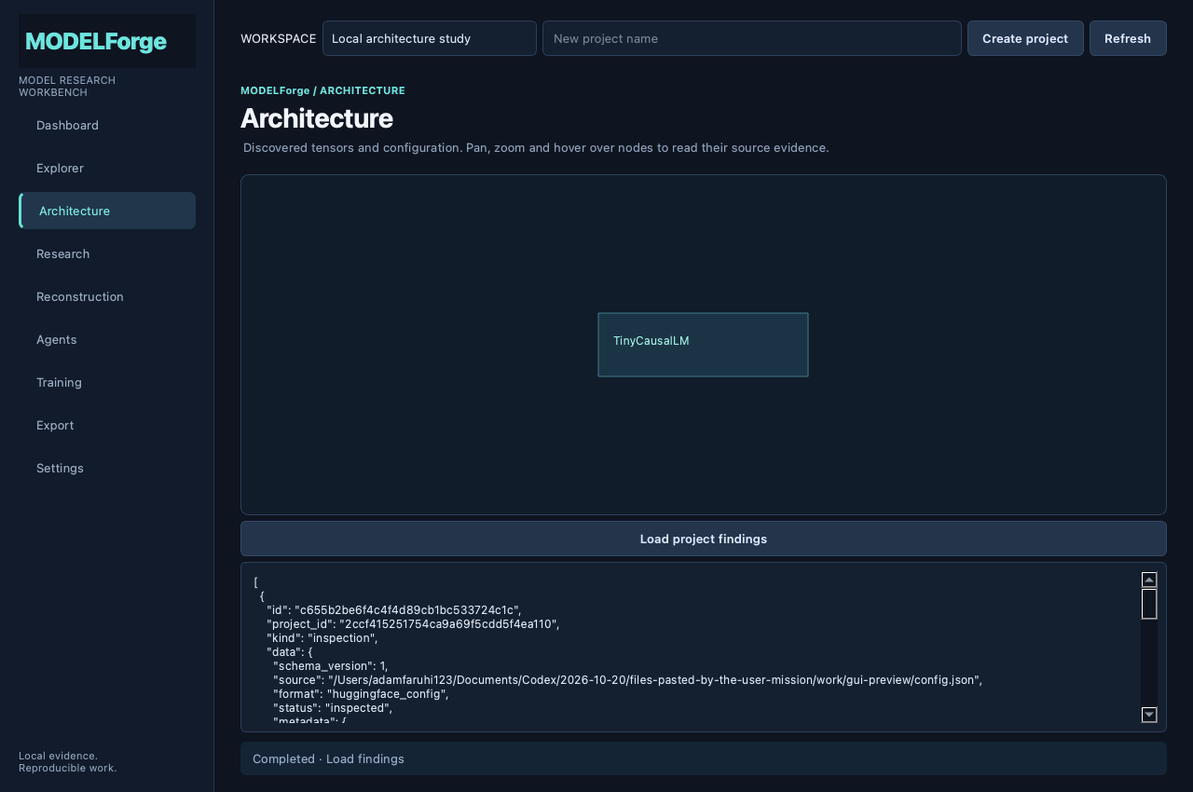
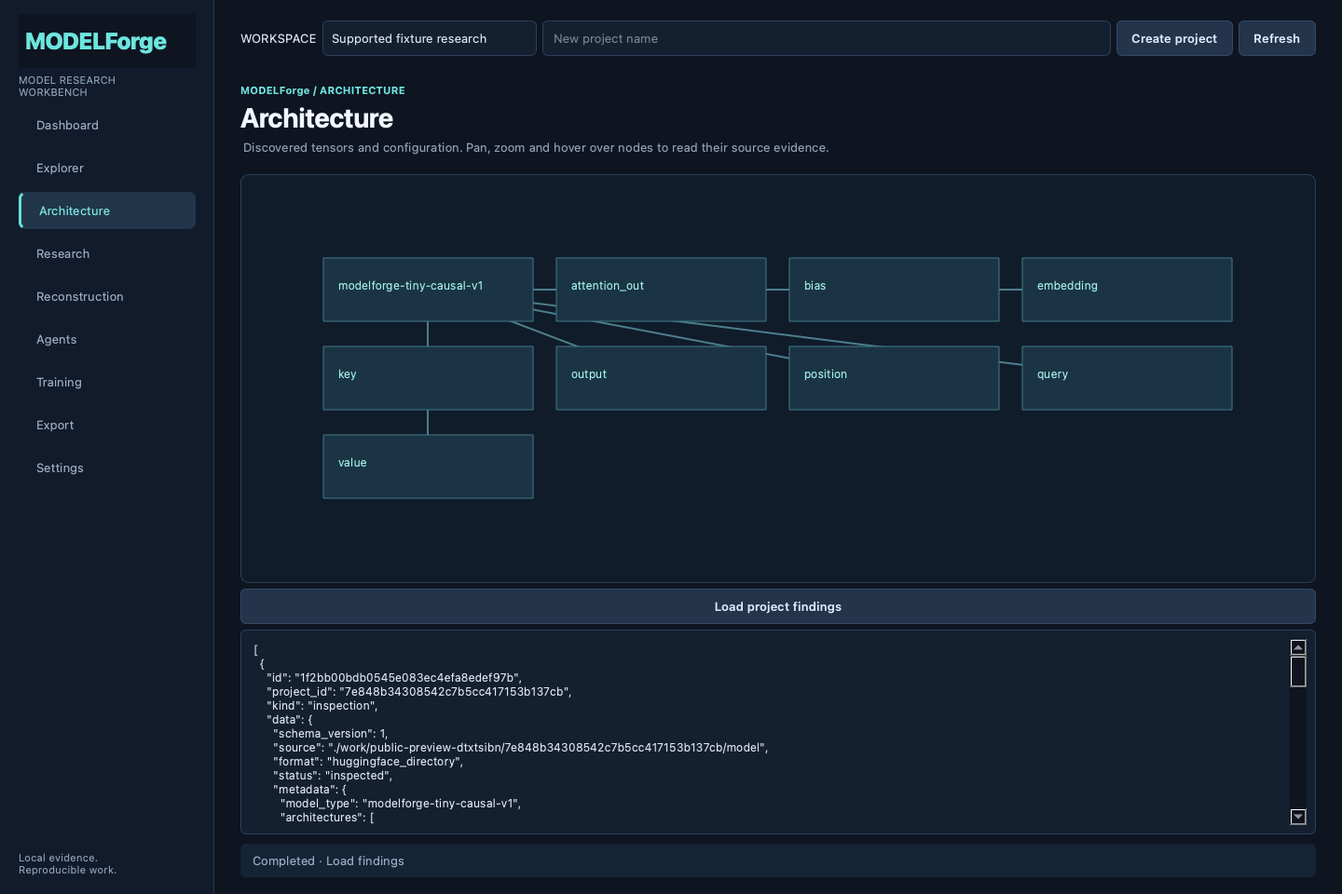
Preserve macOS framework symlinks and verify extracted release packages

diff --git a/packaging/archive.py b/packaging/archive.py
@@ -1,16 +1,75 @@
-"""Archive only the native app built on this platform; hash release assets."""
+"""Archive and round-trip-test the actual native app before hashing release assets."""
 
-import hashlib
 from pathlib import Path
+import hashlib
+import os
 import platform
 import shutil
+import subprocess
 import sys
+import tempfile
+import zipfile
 
 root = Path(__file__).resolve().parents[1]
 dist = root / "dist"
 name = f"ModelForge-0.1.0-{platform.system()}-{platform.machine()}"
 source = "ModelForge.app" if sys.platform == "darwin" else "ModelForge"
-shutil.make_archive(str(dist / name), "zip", root_dir=dist, base_dir=source)
+archive = dist / (name + ".zip")
+if sys.platform == "darwin":
+    # Framework symlinks must survive packaging; generic ZIP writers lose directory symlinks.
+    subprocess.run(["xattr", "-cr", str(dist / source)], check=True)
+    subprocess.run(["codesign", "--verify", "--deep", str(dist / source)], check=True)
+    if archive.exists():
+        archive.unlink()
+    subprocess.run(
+        [
+            "ditto",
+            "-c",
+            "-k",
+            "--keepParent",
+            "--norsrc",
+            "--noextattr",
+            str(dist / source),
+            str(archive),
+        ],
+        check=True,
+    )
+else:
+    shutil.make_archive(str(dist / name), "zip", root_dir=dist, base_dir=source)
+
+with tempfile.TemporaryDirectory(prefix="modelforge-unpack-") as temporary:
+    destination = Path(temporary)
+    if sys.platform == "darwin":
+        subprocess.run(
+            ["ditto", "-x", "-k", str(archive), str(destination)], check=True
+        )
+        executable = destination / source / "Contents" / "MacOS" / "ModelForge"
+        subprocess.run(
+            ["codesign", "--verify", "--deep", "--strict", str(destination / source)],
+            check=True,
+        )
+    else:
+        with zipfile.ZipFile(archive) as zipped:
+            zipped.extractall(destination)
+            if sys.platform != "win32":
+                for item in zipped.infolist():
+                    (destination / item.filename).chmod(
+                        (item.external_attr >> 16) & 0o777
+                    )
+        executable = (
+            destination
+            / source
+            / ("ModelForge.exe" if sys.platform == "win32" else "ModelForge")
+        )
+    environment = dict(
+        os.environ,
+        QT_QPA_PLATFORM="offscreen",
+        MODELFORGE_HOME=str(destination / "research-data"),
+    )
+    subprocess.run(
+        [str(executable), "--smoke-test"], env=environment, check=True, timeout=60
+    )
+
 assets = sorted(
     p
     for p in dist.iterdir()
@@ -22,3 +81,4 @@ assets = sorted(
         for p in assets
     )
 )
+print("Archive extracted and frozen app launch passed:", archive.name)

diff --git a/docs/validation.md b/docs/validation.md
@@ -1,26 +1,34 @@
-# Validation record
+# Validation record — 2026-10-20
 
-This file is finalized with measured results before release. A passing unit test does not prove universal model equivalence.
+## Executed checks
 
-Initial macOS Apple Silicon run: Python 3.12.15; official MCP SDK 1.30.0; PySide6 6.12.0; NumPy 2.5.4. 105 pytest tests and 28 subtests passed with 95% aggregate statement coverage before final integration additions. Final results are recorded below when available.
+| Environment | Pytest result | Installation, package and frozen launch |
+| --- | --- | --- |
+| Local macOS ARM / Python 3.12.15 | **155 passed + 28 subtests**, no skips; **96% statement coverage** | Dedicated desktop install, full example, uninstall, frozen app launch passed |
+| GitHub macOS ARM runner | **154 passed, 1 skipped + 28 subtests** | Fresh core install, full CPU example, uninstall, native package and frozen launch passed |
+| GitHub Linux x64 runner | **154 passed, 1 skipped + 28 subtests** | Fresh core install, full CPU example, uninstall, native package and frozen launch passed |
+| GitHub Windows x64 runner | **145 passed, 10 skipped + 28 subtests** | Fresh core install, full CPU example, uninstall, native package and frozen launch passed |
 
-Real checks include generated SafeTensors and GGUF binary files, generated ONNX/Core ML protobufs, NumPy inference and training, independent scalar attention comparison, export/reload and reconstructed-fixture parity, SQLite persistence/concurrent claims, real SDK stdio subprocess transport and Qt offscreen service workflows.
+[Successful cross-platform run 39433685862](https://github.com/m2gsg7rf22-cmd/model-forge/actions/runs/39433685862) verifies executable source commit `cfedbfa784a70c0d20a653b80f63bf99f7ca8baa`. Windows skips comprise POSIX executable/symlink fixtures and optional Core ML. The other CI platforms skip optional Core ML; local acceptance installed coremltools and ran that test. Strict mypy and Ruff passed. Version details: [tested-dependencies.json](tested-dependencies.json).
 
-Local HTTP tests are **fixture endpoints**, not third-party paid model calls. External agent adapter tests execute **provider-named temporary fixtures**, not authenticated Claude/Codex inference. Low-memory and disk-full conditions include explicitly injected tests; they are not claims that the host ran out of physical memory. Qt tests use offscreen rendering; screenshots are real Qt renders, not a human usability study.
+The initial Windows failure was a test corpus written with the default Windows encoding. The test now explicitly writes UTF-8, matching the product's documented UTF-8 corpus loader. Corrected CI passed without changing the loader to accept incorrect encodings.
 
-Claude Code 2.1.304 was installed in an isolated workspace directory. Strict marketplace validation, plugin installation into isolated CLAUDE_CONFIG_DIR, and `claude mcp list` returning Connected passed. Codex CLI 0.155.1 registered and listed the actual stdio executable using isolated CODEX_HOME. This does not yet establish an authenticated agent research turn or the separate desktop app's plugin discovery UX.
+## Real execution versus fixtures
 
-Windows-specific provider executable fixtures and privileged symlink tests are skipped where POSIX assumptions do not apply. Optional Core ML tests skip when coremltools is absent. CI smoke tests validate boot and basic service startup, not signed-installation UX on every OS version.
+Real generated-file tests cover SafeTensors/GGUF, ONNX and Core ML protobufs, malformed inputs and shard consistency. Real NumPy tests cover causal masking, an independent scalar attention reference, loss reduction with a frozen backbone, exact float32 export/reconstruction parity and lossy quantized storage. SQLite tests exercise concurrent deduplication, atomic job claims and recovery. Official MCP SDK tests use an actual subprocess stdio connection. Qt tests use the real service and persistence, not fabricated service results.
 
-## Additional verified integration results
+Local HTTP servers are **fixture endpoints**, not paid production-model calls. Temporary provider-named executables are **agent adapter fixtures**, not authenticated Claude/Codex research. Disk-full/low-memory and some process error cases are explicitly **injected failures**. Dialog selections are patched in GUI tests while the underlying file/service operations actually execute. Qt tests and screenshots use **offscreen rendering**, not a human usability study.
 
-- Final local suite after reconstruction/quantization and evaluation integration: **155 tests passed, 28 subtests passed, 96% aggregate statement coverage**. Strict mypy and Ruff are checked separately.
-- Fresh dedicated source installation with desktop dependencies succeeded. Installed CLI executed the complete CPU example; installed GUI entry passed its timed offscreen launch. Dedicated uninstall removed the environment and retained research data.
-- Frozen macOS app built, ad-hoc signed and passed a timed offscreen launch.
-- Authenticated Codex CLI turn successfully called the real `hardware_status` MCP tool and reported observed NumPy CPU / arm64. First attempt was blocked by the noninteractive approval policy; a retry explicitly approved only that read-only tool. No blanket tool approval or persistent host-settings edit was used.
-- GitHub Actions run [39433001579](https://github.com/m2gsg7rf22-cmd/model-forge/actions/runs/39433001579) passed Linux x64 and macOS ARM test, type/lint, fresh installation/uninstallation, package and frozen-app smoke stages. Its Windows test failed and is being corrected; it is not a passing Windows release record.
+## Host integrations
 
-No authenticated Claude model turn or local Claude desktop application UI test has
-been completed. Claude CLI plugin install and real MCP connection were verified.
-No third-party production-model extraction, high-memory training, actual GPU
-backend, notarization or signed Windows installation was tested.
+Claude Code 2.1.304 was installed in a workspace-local environment. Strict marketplace validation, plugin installation into isolated `CLAUDE_CONFIG_DIR`, and `claude mcp list` reporting **Connected** passed. A separate `CODEX_HOME` registered/listed the real stdio server using Codex CLI 0.155.1.
+
+An **authenticated Codex turn** successfully invoked ModelForge's real `hardware_status` tool and reported observed `NumPy CPU` / `arm64`. The first attempt was blocked by noninteractive tool approval; the successful retry explicitly approved only that read-only tool. Existing host settings were not edited.
+
+Claude reports no authenticated account on this host. No authenticated Claude model turn or Claude desktop application plugin-discovery UI test is claimed. The user must log in with `claude auth login` to complete authenticated Claude-agent testing. The existing host Claude executable also lacks its native binary; the isolated acceptance installation works.
+
+## Distribution
+
+A fresh clone of the public repository was installed, executed the full CPU example, and uninstalled. Research data remained intact. Local macOS ZIP creation uses `ditto` to preserve framework symlinks; the archive was unpacked to a fresh temporary directory, its ad-hoc signature verified, and the extracted application launched successfully. This catches archive failures that an in-place executable smoke test cannot catch. CI's archive stage now repeats extraction/launch before uploading assets.
+
+macOS builds are ad-hoc signed, **not Developer-ID signed or notarized**. Windows artifacts are portable executable folders, **not signed MSI installers**. Source installation scripts are supplied for all three systems and were exercised on the CI runners. macOS Intel, specific Windows 10/11 client versions, GPU backends and high-memory training were not directly tested. No production-model extraction or proprietary weight reconstruction was run.

diff --git a/docs/user-guide.md b/docs/user-guide.md
@@ -8,7 +8,7 @@ without a desktop display. Data defaults to `~/.modelforge`; use
 1. **Create a project.** Enter its name above the pages and click **Create project**.
    Select existing projects from the workspace dropdown. Projects, findings and
    task states persist in SQLite.
-2. **Inspect a local artifact.** In **Explorer**, browse to a file or type a model
+2. **Inspect a local artifact.** In **Explorer**, browse to a file, click **Choose model folder…**, or type a model
    directory path, then click **Inspect artifact**. Read the returned status,
    limitations and evidence. Pickle/PyTorch files are refused.
 3. **Explore architecture.** Open **Architecture**. Drag to pan, scroll to zoom,
@@ -23,10 +23,15 @@ without a desktop display. Data defaults to `~/.modelforge`; use
    `MODELFORGE_API_KEY` before launch when needed. Token limits cap requested
    output, while input/provider overhead remains billable. Results are saved,
    never automatically reused as training data.
-5. **Build the independent fixture.** In **Reconstruction**, click **Build local
-   reconstruction**, then enter a prompt and **Run local inference**. This creates
-   a small seeded byte-token model; it does not reconstruct the last imported
-   artifact. Create another project to build another fixture.
+5. **Build or reconstruct the supported fixture.** In **Reconstruction**, click
+   **Build independent tiny fixture**, then enter a prompt and **Run local
+   inference**. This creates a small seeded byte-token model. To reconstruct an
+   existing supported ModelForge bundle, create an empty project, choose its
+   source directory with **Choose source folder…**, and click **Reconstruct
+   supported bundle**. The saved report compares logits on finite test prompts.
+   Other imported architectures remain inspection-only. **Quantize current
+   fixture** creates separate lossy INT8 storage; execution still uses float32 CPU
+   arithmetic. The current model is not replaced by its quantized export.
 6. **Train its output head.** In **Training**, paste your own authorized text or
    load a UTF-8 file, choose 1–1,000 steps, and click **Train baseline**. Only the
    output projection is trained. Attention and embeddings remain fixed.
@@ -36,7 +41,7 @@ without a desktop display. Data defaults to `~/.modelforge`; use
    `{"provider":"codex","prompt":"Review this project"}` for an external agent.
    External agents require the authorization checkbox and an installed,
    authenticated provider CLI. **Queue job** persists it; **Run pending jobs**
-   starts up to two jobs. Repeated identical pending work is deduplicated.
+   starts up to the configured one or two jobs. Repeated identical pending work is deduplicated.
 8. **Export.** In **Export**, choose a new ZIP path and click **Export project**.
    Findings and project-generated artifacts are included; imported model files
    are not copied. Reports can contain local paths and API responses, so review
@@ -47,8 +52,8 @@ containing `api_endpoint`, `api_model`, `max_workers`, `agent_timeout_seconds`, 
 `agent_memory_mb`. The queue has a hard two-worker ceiling;
 `max_workers` selects one or two active workers. API endpoint/model preferences
 are stored; Research fields must currently be entered explicitly. Secret fields
-are rejected; keep API keys in the environment. Agent limits are clamped to
-1–300 seconds and 64–4,096 MiB.
+are rejected; keep API keys in the environment. Agent limits must be integers in the ranges
+1–300 seconds and 64–4,096 MiB; invalid values are rejected.
 
 Operations run in background workers and failures appear in their page. Wait for
 active operations to finish before closing. Closing while work is active is
@@ -64,3 +69,19 @@ modelforge --home ./research-data findings PROJECT_ID
 Replace `PROJECT_ID` with the returned ID. For a complete generated-model workflow,
 run `modelforge --home ./example-data example --destination ./example-export.zip`.
 Use a new destination because exports refuse to overwrite existing files.
+
+For saved API experiment evaluation, use the CLI or MCP. Obtain behavioral finding
+IDs from the project's findings, then run:
+
+```sh
+modelforge --home ./research-data compare-experiments PROJECT_ID LEFT_ID RIGHT_ID
+modelforge --home ./research-data benchmark PROJECT_ID FINDING_ID '{"prompt":"expected output"}'
+```
+
+Comparisons align identical prompt text and repeated-sample occurrence, report
+unmatched samples, and retain output-change/JSON-rate/latency summaries. Benchmarks
+measure exact text matches only against your supplied labels. Probe results
+include descriptive rankings of observed JSON validity and repeat consistency;
+these do not establish broad correctness, architecture, weights, or statistical
+independence. Both evaluation operations save findings without issuing new API
+requests or using outputs for training.

diff --git a/docs/capabilities.md b/docs/capabilities.md
@@ -15,7 +15,7 @@ inspected as artifacts, not automatically executed or reconstructed.
 | Core ML `.mlmodel` | Optional `coremltools`: declared type and input/output interface | Tensor inventory and execution unsupported |
 | Core ML `.mlpackage` | Explicit unsupported result | Unsupported |
 | PyTorch/pickle checkpoints | Refused, including trusted checkpoints in this release | Unsupported; convert trusted files externally |
-| Authorized text API | Actual responses, end-to-end latency, JSON validity, repeated-prompt consistency | No structural or weight recovery |
+| Authorized text API | Responses, latency, JSON validity, repeat consistency, descriptive property ranking; saved finding comparisons and explicit-label exact-match scoring | No structural or weight recovery |
 
 [Inspector bounds and sources](inspector-sources.md) describe accepted dtypes,
 limits, and malformed-file rejection. Metadata is parsed without executing model
@@ -58,23 +58,31 @@ actual integration status appear in [ecosystem review](ecosystem.md).
 Inspection always reports `reconstruction.exact = false`. The independent seeded
 fixture is not a replica of an imported model. Float32 reconstruction of the
 supported bundle can show identical logits on tested prompts. INT8 storage is
-lossy and cannot recover original pre-quantization weights. See
-[reconstruction](reconstruction.md).
+lossy and cannot recover original pre-quantization weights. Reconstruction of a
+supported source bundle into an empty project and INT8 export are available in
+the GUI, CLI, MCP and service APIs. See [reconstruction](reconstruction.md).
+
+Behavioral finding comparisons pair identical prompt strings by occurrence order
+and report unmatched samples. Exact-match benchmarks use explicit user-supplied
+text labels; they are not standardized benchmarks or semantic correctness tests.
+Probe property rankings use Wilson reference lower bounds for observed JSON
+validity and repeat equality. These intervals are not calibrated confidence for
+correlated/selected probes and provide no architectural or weight posterior.
 
 ## Hardware and operating systems
 
 | Platform | CPU metadata/CLI/MCP/tiny model | Desktop | Accelerators | Validation scope |
 | --- | --- | --- | --- | --- |
-| macOS Apple Silicon | Supported | PySide6 | NumPy CPU; MLX unsupported | Local development and acceptance host: Darwin arm64 / Python 3.12 |
-| macOS Intel | Portable source path, dependencies permitting | PySide6 wheels permitting | CPU only | Not locally validated |
-| Windows 10/11 x64 | Portable source path | PySide6 | CPU only; CUDA unsupported | CI workflow supplied; local validation not claimed |
-| Linux x64 | Portable source path | PySide6 plus a working display/Qt libraries | CPU only; CUDA unsupported | CI workflow supplied; local validation not claimed |
+| macOS Apple Silicon | Supported | PySide6 | NumPy CPU; MLX unsupported | Local acceptance host: Darwin arm64 / Python 3.12; macOS CI succeeded |
+| macOS Intel | Portable source path, dependencies permitting | PySide6 wheels permitting | CPU only | Not validated; no Intel native package |
+| Windows 10/11 x64 | Portable source path | PySide6 | CPU only; CUDA unsupported | CI test, install, package and frozen-app launch passed |
+| Linux x64 | Portable source path | PySide6 plus a working display/Qt libraries | CPU only; CUDA unsupported | CI test, install, package and frozen-app launch passed |
 
 Python 3.12+ is required. A GPU is unnecessary. Metadata parsing does not load
 weight payloads. New fixture construction requires 256 MiB available RAM and
 64 MiB free disk through the service. Builder memory estimates also enforce the
 configured working-memory limit before allocation. These checks are estimates,
-not OS memory reservations. The agent scheduler admits at most two concurrent
+not OS memory reservations. The agent scheduler honors `max_workers` of 1 or 2 and admits at most two concurrent
 jobs; agent subprocesses have time, memory, and log bounds. API output-token
 budgets and agent time limits are not monetary provider-account caps.
 

diff --git a/docs/api.md b/docs/api.md
@@ -23,12 +23,16 @@ finally:
 | `inspect(project_id, path)` | Run metadata engine and save an inspection finding |
 | `findings(project_id)` | Saved records including parsed `data` |
 | `build(project_id)` | Create one independent tiny-model bundle; refuse replacement |
+| `reconstruct(project_id, source_path)` | Reconstruct a validated supported bundle into an empty project and record finite-prompt parity |
+| `quantize(project_id)` | Save a separate lossy INT8 bundle under `quantized`; CPU compute remains float32 |
+| `compare_experiments(project_id, left_id, right_id)` | Compare two saved behavioral finding IDs in this project; save a comparison finding |
+| `benchmark(project_id, finding_id, expected)` | Score a saved behavioral finding against a prompt-to-exact-output string mapping |
 | `infer(project_id, text)` | Generated model only; prompt <=16,000 UTF-8 bytes; up to 32 new tokens |
 | `train(project_id, text, steps=100)` | Output head only; text 2–64,000 bytes; 1–1,000 steps |
 | `probe(project_id, endpoint, model, prompts, authorized, budget=1024)` | Authorized text API observations; see bounds below |
 | `export(project_id, dest)` | New ZIP of findings and generated artifacts; return path/hash/count |
 | `enqueue(project_id, kind, payload)` | Deduplicated persisted job; kind inspect/build/train/infer/agent |
-| `run_pending(wait=True)` / `tasks()` | Claim up to two jobs / return statuses and results |
+| `run_pending(wait=True)` / `tasks()` | Claim up to the configured 1–2 jobs / return statuses and results |
 | `hardware()` | Current platform, CPU, memory, disk, actual inference backend |
 | `settings()` / `save_settings(values)` | Persist allowlisted non-secret JSON preferences |
 | `close()` | Wait for worker completion and close the executor |
@@ -62,9 +66,35 @@ monetary budget. No outputs automatically enter training.
 Run `modelforge --help` for CLI commands. All commands share optional `--home`
 before the subcommand. `example` is the integrated generated-model workflow;
 `enqueue` takes a JSON object string and `run-tasks` executes one pending batch.
-Probe, quantization, reconstruction and model comparison are Python/MCP-specific
-where exposed; they do not all have dedicated CLI subcommands. See [MCP](mcp.md)
-for the exact tool list.
+Additional CLI commands expose the persisted service operations:
+
+```sh
+modelforge reconstruct PROJECT_ID /path/to/supported-source-bundle
+modelforge quantize PROJECT_ID
+modelforge compare-experiments PROJECT_ID LEFT_FINDING_ID RIGHT_FINDING_ID
+modelforge benchmark PROJECT_ID FINDING_ID '{"prompt text":"exact expected output"}'
+```
+
+Use `findings PROJECT_ID` to obtain behavioral finding IDs. Reconstruction requires
+an empty target project and supports only the validated tiny-model architecture.
+`compare-experiments` pairs exact prompt text by occurrence order and reports
+unmatched samples; it does not establish a causal version change. `benchmark`
+counts exact Unicode text matches without normalization; supplied labels are not
+independently verified and unlabeled samples are reported separately. Direct
+bundle logit comparison (`builder.compare_models`) remains a Python API. See
+[MCP](mcp.md) for the exact tool list.
+
+Probe reports include `behavioral_hypothesis_ranking`, computed from observed RFC
+JSON validity and adjacent equal-text repeats of identical prompts. Rankings use
+the lower bound of a Wilson binomial reference interval. These are descriptive
+sample properties, not calibrated model confidence or architecture/weight
+posteriors. Selected and repeated probes may be correlated. Empty evidence yields
+null rates and an insufficient-observations status rather than invented certainty.
+
+`save_settings` validates `max_workers` as integer 1 or 2,
+`agent_timeout_seconds` as integer 1–300, and `agent_memory_mb` as integer
+64–4,096. API endpoint/model preferences must be strings. The scheduler honors
+`max_workers` for new batch admission; it does not cancel already running jobs.
 
 ## Modality adapters
 

diff --git a/docs/mcp.md b/docs/mcp.md
@@ -32,20 +32,35 @@ same file permissions appropriate for the intended research workspace.
 | `inspect_model` | `project_id`, `path` | Saved evidence-backed artifact report |
 | `read_findings` | `project_id` | Recorded reports and experiments |
 | `build_model` | `project_id` | Independent tiny fixture bundle |
+| `reconstruct_model` | `project_id`, `source_path` | Supported bundle reconstruction in an empty project, plus finite logit parity |
+| `quantize_model` | `project_id` | Separate lossy INT8 fixture storage; float32 CPU execution |
+| `compare_experiments` | `project_id`, `left_id`, `right_id` | Saved matched-prompt behavioral comparison |
+| `benchmark_experiment` | `project_id`, `finding_id`, `expected` | Saved exact-output label benchmark |
 | `generate` | `project_id`, `text` | CPU output from generated fixture |
 | `train_model` | `project_id`, `text`, `steps=100` | Output-head training metrics and saved bundle |
 | `probe_model` | `project_id`, `endpoint`, `model`, `prompts`, `authorized=false`, `budget=1024` | Actual bounded text API observations |
 | `export_project` | `project_id`, `destination` | Archive path, SHA-256, generated-file count |
 | `enqueue_task` | `project_id`, `kind`, `payload` | Queued or existing deduplicated job |
-| `run_tasks` | none | One batch of up to two jobs plus status ledger |
+| `run_tasks` | none | One batch of configured 1–2 jobs plus status ledger |
 | `task_status` | none | Persistent statuses/results |
 | `hardware_status` | none | Current hardware and NumPy CPU backend |
 
 A practical sequence is create project → build fixture → inspect its generated
 model directory → generate → train on authorized text → read findings → export.
-For imported artifacts, create project → inspect → read findings is the supported
-path; `build_model` creates an independent fixture, not an inferred replica.
-For API work, obtain user authorization before passing `authorized=true`.
+For imported artifacts, create project → inspect → read findings is the general
+supported path; `build_model` creates an independent fixture, not an inferred
+replica. A validated supported ModelForge bundle can instead be passed to
+`reconstruct_model` in an empty project; its result includes finite-prompt parity.
+`quantize_model` exports lossy INT8 storage for the current fixture and does not
+promise accelerated INT8 execution.
+
+For API work, obtain user authorization before passing `authorized=true`. Read
+behavioral finding IDs with `read_findings`, then compare two via
+`compare_experiments`, or call `benchmark_experiment` with `expected` mapping
+prompt strings to exact expected output strings. Comparisons pair repeated
+samples by occurrence; benchmarks exclude and count unlabeled samples. Probe
+results also rank observed JSON validity and repeat consistency descriptively;
+no architecture or weight posterior is inferred.
 
 `enqueue_task(kind="agent")` accepts a payload with `provider` (`claude` or
 `codex`), `prompt`, and `authorized=true`. It requires an installed authenticated
@@ -54,8 +69,9 @@ again if more queued work remains. This is a persistent queue, not an always-on
 scheduler daemon or a provider monetary-budget manager.
 
 The server currently exposes tools only; no separate resource/prompt catalog,
-HTTP transport, or remote authentication service is shipped. Quantization and
-explicit tiny-bundle reconstruction/comparison remain Python APIs.
+HTTP transport, or remote authentication service is shipped. All 17 tools are listed above. Direct numerical comparison of two arbitrary
+supported bundle paths remains `builder.compare_models` in the Python API;
+`compare_experiments` compares stored behavioral findings instead.
 
 See [Claude Code](claude-code.md) and [Codex](codex.md) for host setup. The
 `packaging/connect.py` helper prepares isolated files and requires `--apply`
